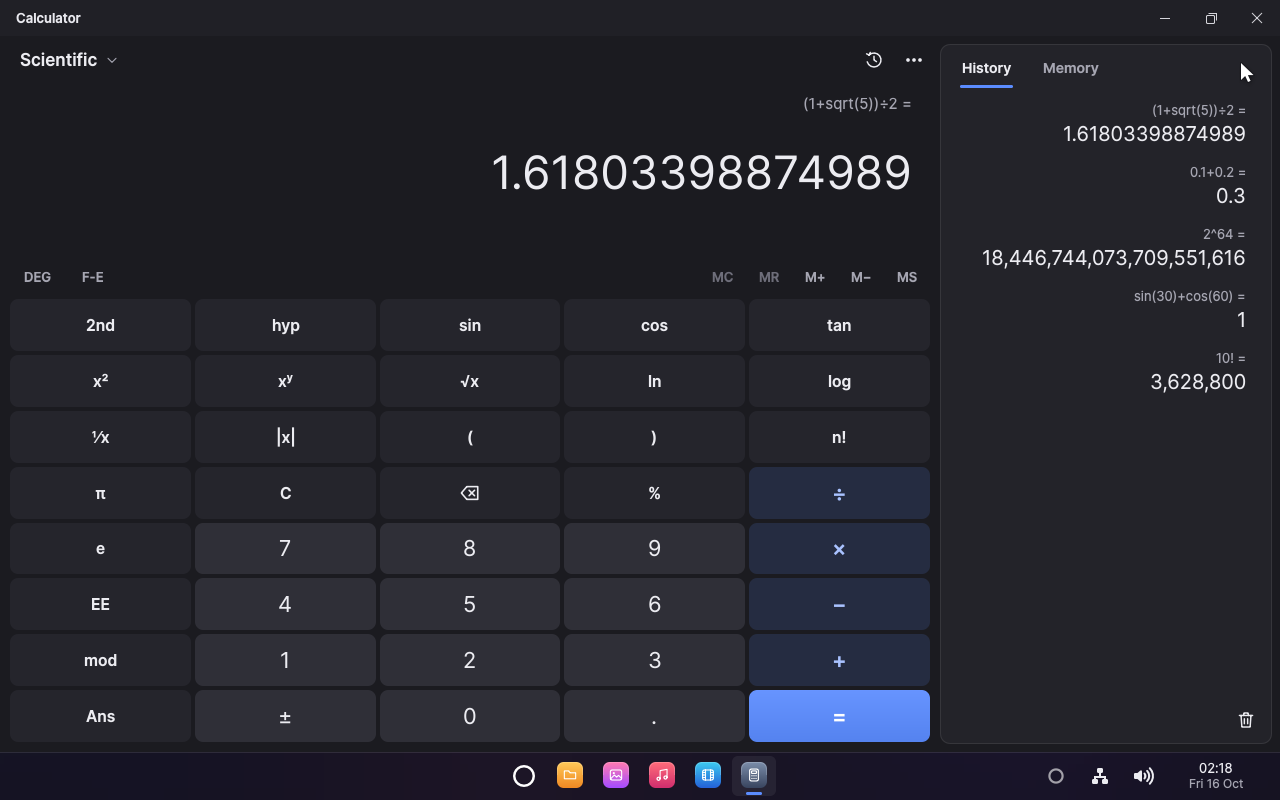
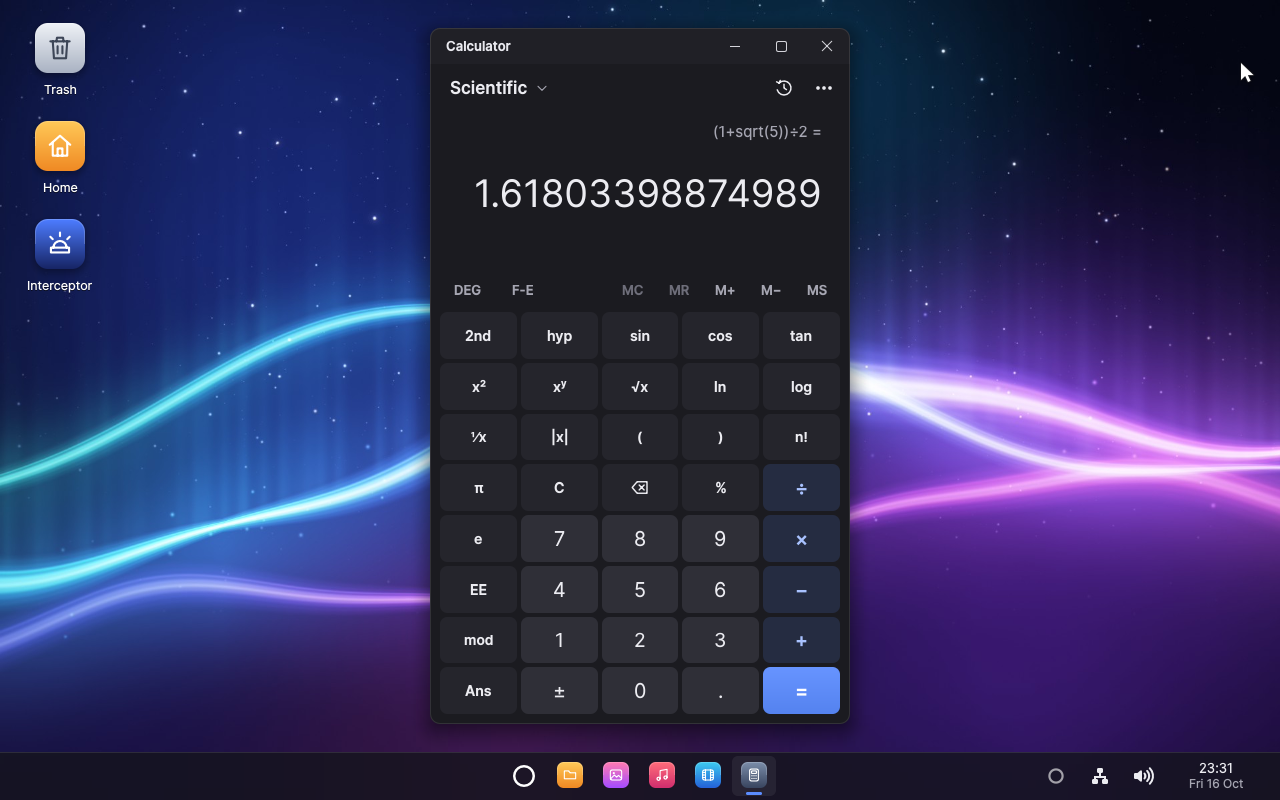
docs(readme): title screenshots by app name, show the calculator unmaximized

diff --git a/README.md b/README.md
@@ -13,7 +13,7 @@ An operating system written in Rust, with a voice agent built into the system.
 [![Written in Rust](https://img.shields.io/badge/written%20in-Rust-b7410e?logo=rust&logoColor=white)](documentation/RUST.md)
 [![Runs on x86-64 PCs and QEMU](https://img.shields.io/badge/runs%20on-x86--64%20PCs%20%26%20QEMU-555)](#quick-start)
 
-[Quick start](#quick-start) · [Make an app agentic](#make-an-app-agentic) · [Architecture](#architecture) · [Documentation](#documentation)
+[Screenshots](#screenshots) · [Quick start](#quick-start) · [Make an app agentic](#make-an-app-agentic) · [Architecture](#architecture) · [Documentation](#documentation)
 
 </div>
 
@@ -38,36 +38,33 @@ and the applications.
   </tr>
 </table>
 
-<p align="center">
-  <img src="documentation/images/desktop.png" alt="The Veda desktop, with the agent's window open and listening">
-</p>
+## Screenshots
 
-<details>
-<summary><b>More screenshots</b></summary>
-<br>
 <table>
   <tr>
-    <td width="50%"><img src="documentation/images/editor.png" alt="The Text Editor showing a Rust program with syntax highlighting"><p align="center">Text Editor, highlighting Rust</p></td>
-    <td width="50%"><img src="documentation/images/photos.png" alt="Photos showing a library of eight pictures"><p align="center">Photos, the picture library</p></td>
+    <td colspan="2"><p align="center"><b>Desktop</b></p><img src="documentation/images/desktop.png" alt="The Veda desktop, with the agent's window open and listening"></td>
   </tr>
   <tr>
-    <td><img src="documentation/images/music.png" alt="Music playing a song, with cover art and a spectrum visualiser"><p align="center">Music, with its visualiser</p></td>
-    <td><img src="documentation/images/files.png" alt="Files showing pictures as thumbnails, with the Trash in its sidebar"><p align="center">Files, with thumbnails</p></td>
+    <td width="50%"><p align="center"><b>Text Editor</b></p><img src="documentation/images/editor.png" alt="The Text Editor showing a Rust program with syntax highlighting"></td>
+    <td width="50%"><p align="center"><b>Photos</b></p><img src="documentation/images/photos.png" alt="Photos showing a library of eight pictures"></td>
   </tr>
   <tr>
-    <td><img src="documentation/images/videos.png" alt="Videos playing an aurora timelapse, a picture from further on above its seek bar"><p align="center">Videos, AV1 decoded by dav1d</p></td>
-    <td><img src="documentation/images/agent-settings.png" alt="Settings on the agent's page: its Deepgram key, its name, voice and speaking rate, and its language model"><p align="center">The agent's settings</p></td>
+    <td><p align="center"><b>Music</b></p><img src="documentation/images/music.png" alt="Music playing a song, with cover art and a spectrum visualiser"></td>
+    <td><p align="center"><b>Files</b></p><img src="documentation/images/files.png" alt="Files showing pictures as thumbnails, with the Trash in its sidebar"></td>
   </tr>
   <tr>
-    <td><img src="documentation/images/paint.png" alt="Paint with a synthwave sunset open, white stars drawn in its sky and Hello, Veda! written over it"><p align="center">Paint, drawing on a picture</p></td>
-    <td><img src="documentation/images/calculator.png" alt="The Calculator in Scientific mode showing the golden ratio, its history beside the keys"><p align="center">Calculator, exact and scientific</p></td>
+    <td><p align="center"><b>Videos</b></p><img src="documentation/images/videos.png" alt="Videos playing an aurora timelapse, a picture from further on above its seek bar"></td>
+    <td><p align="center"><b>Settings</b></p><img src="documentation/images/agent-settings.png" alt="Settings on the agent's page: its Deepgram key, its name, voice and speaking rate, and its language model"></td>
   </tr>
   <tr>
-    <td><img src="documentation/images/gcc.png" alt="The Terminal, where GCC names an undeclared variable in a C program"><p align="center">GCC 16 in the Terminal</p></td>
-    <td><img src="documentation/images/interceptor.png" alt="Interceptor: a chase at sunset on a road through the trees of the hills"><p align="center"><i>Interceptor</i>, in OpenGL ES 3.0</p></td>
+    <td><p align="center"><b>Paint</b></p><img src="documentation/images/paint.png" alt="Paint with a synthwave sunset open, white stars drawn in its sky and Hello, Veda! written over it"></td>
+    <td><p align="center"><b>Calculator</b></p><img src="documentation/images/calculator.png" alt="The Calculator in Scientific mode showing the golden ratio"></td>
+  </tr>
+  <tr>
+    <td><p align="center"><b>Terminal</b></p><img src="documentation/images/gcc.png" alt="The Terminal, where GCC names an undeclared variable in a C program"></td>
+    <td><p align="center"><b>Interceptor</b></p><img src="documentation/images/interceptor.png" alt="Interceptor: a chase at sunset on a road through the trees of the hills"></td>
   </tr>
 </table>
-</details>
 
 ## Quick start
 
